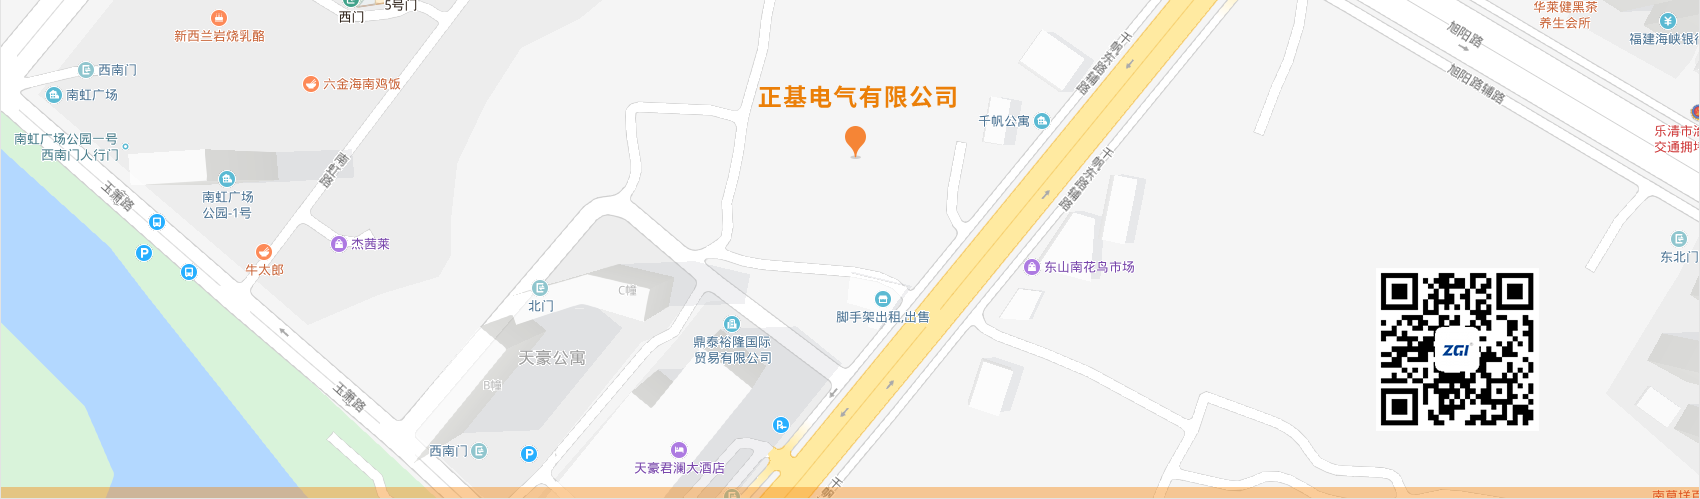
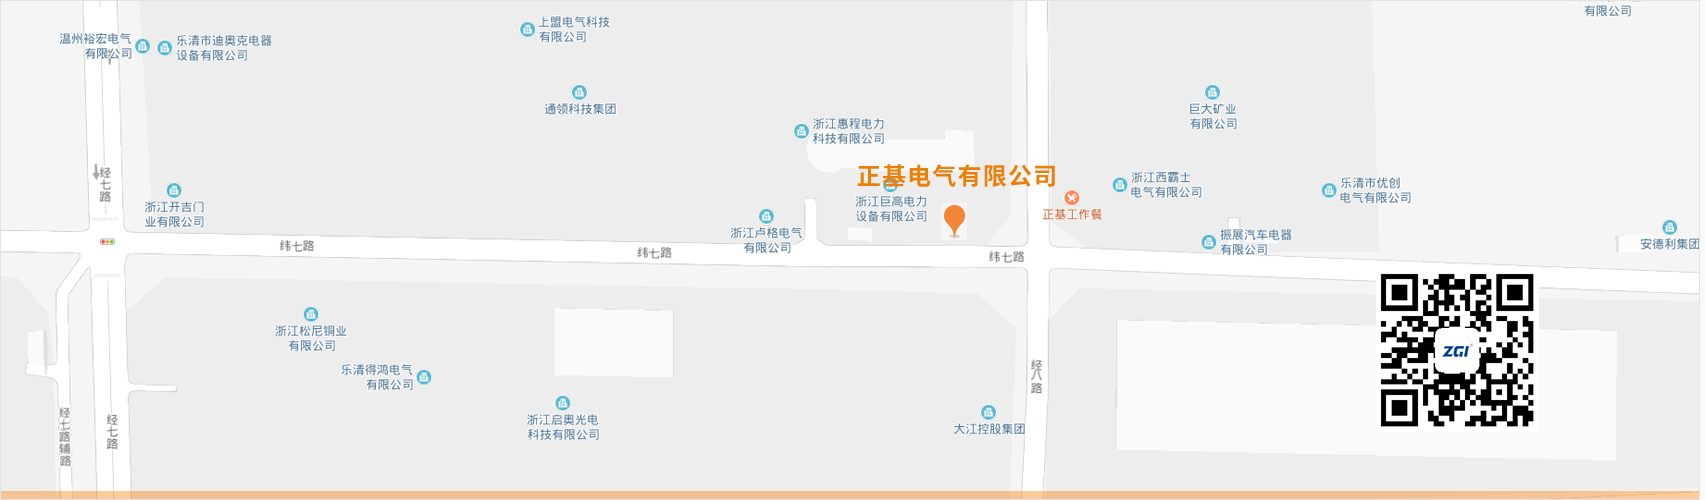
修改产品图片

diff --git a/contact.html b/contact.html
@@ -23,7 +23,7 @@
     <div class="contact-body-map"></div>
     <div class="contact-body-content">
         <div class="contact-body-content-item">
-            <label>地址：</label>浙江省乐清市千帆东路288号
+            <label>地址：</label>乐清市经济开发区纬七路220号
             <br />
             <label>电话：</label>0577-62583919 / 62586988
         </div>

diff --git a/main.js b/main.js
@@ -2,6 +2,7 @@
 const {app, BrowserWindow} = require('electron')
 const electron = require('electron')
 
+console.log(app.getAppPath())
 // Keep a global reference of the window object, if you don't, the window will
 // be closed automatically when the JavaScript object is garbage collected.
 let mainWindow

diff --git a/index.html b/index.html
@@ -26,7 +26,7 @@
             </a>
         </div>
         <div class="index-body-button-item">
-            <a href="video.html?src=file/video/2.m3u8">
+            <a href="video.html?src=file/video/test.m3u8">
                 <img src="images/index/video.png">
             </a>
         </div>
